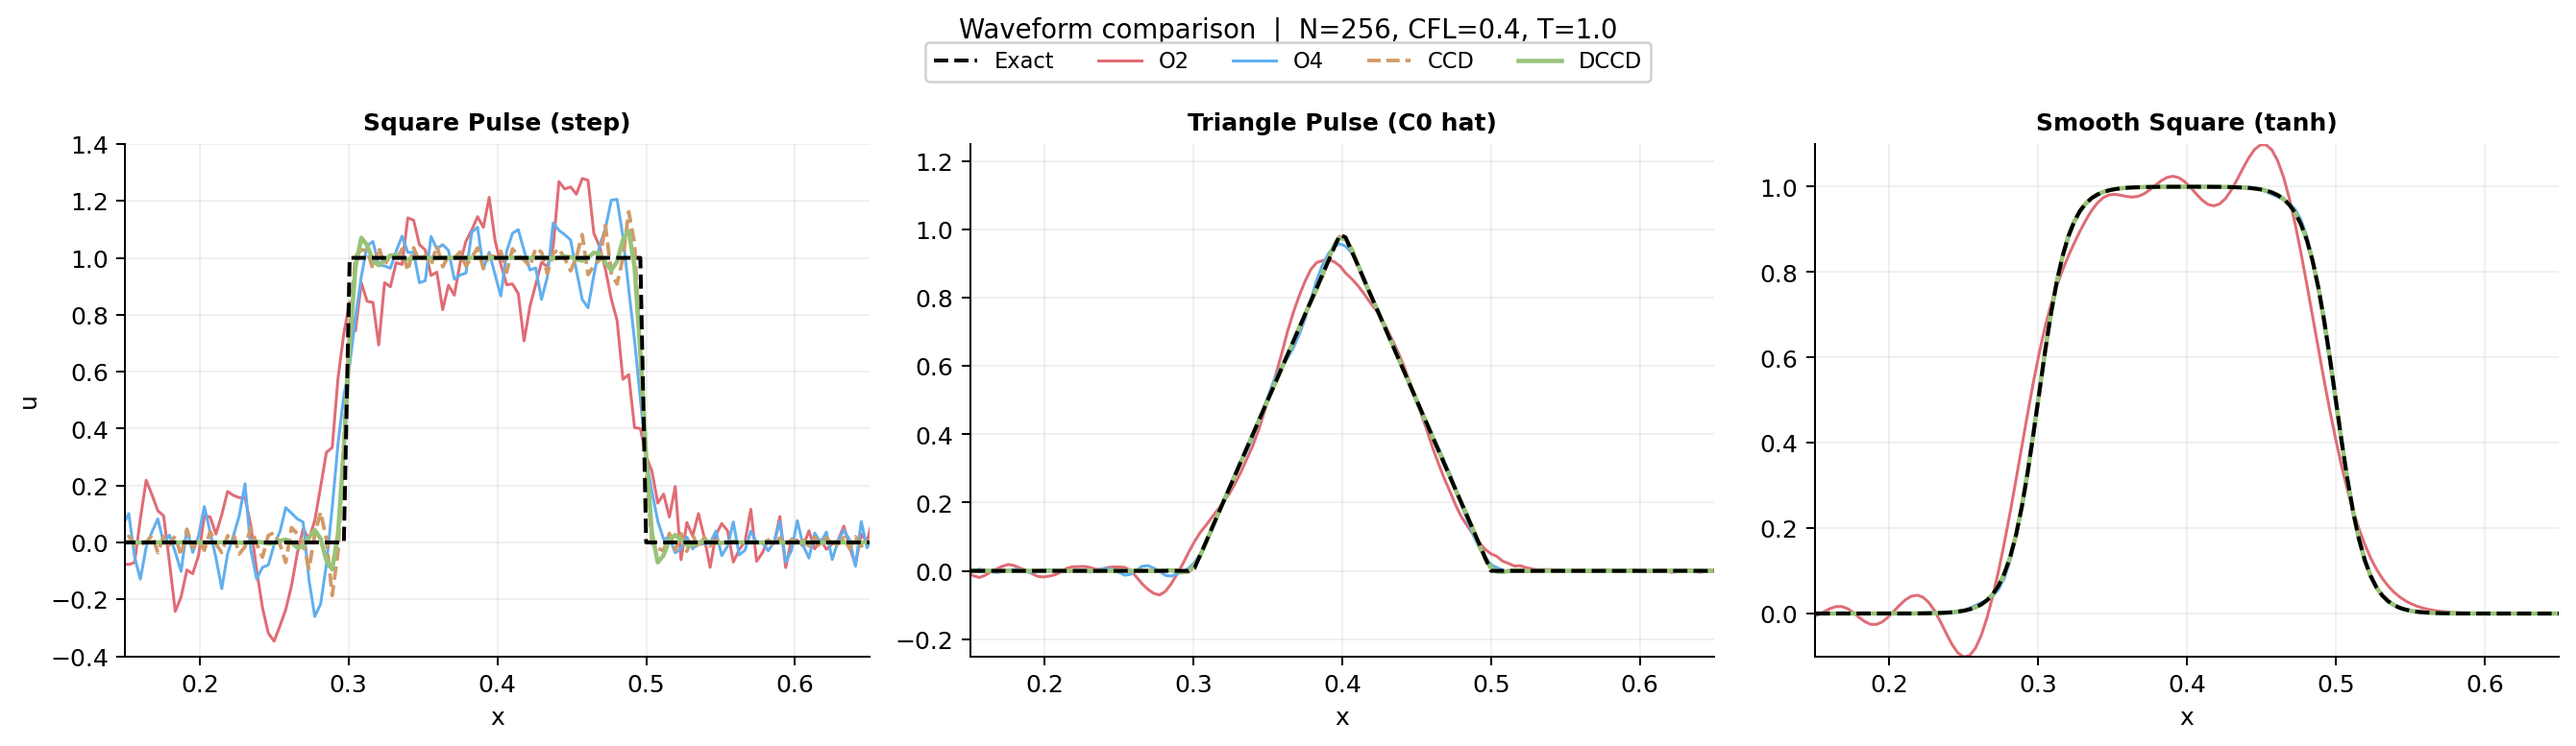
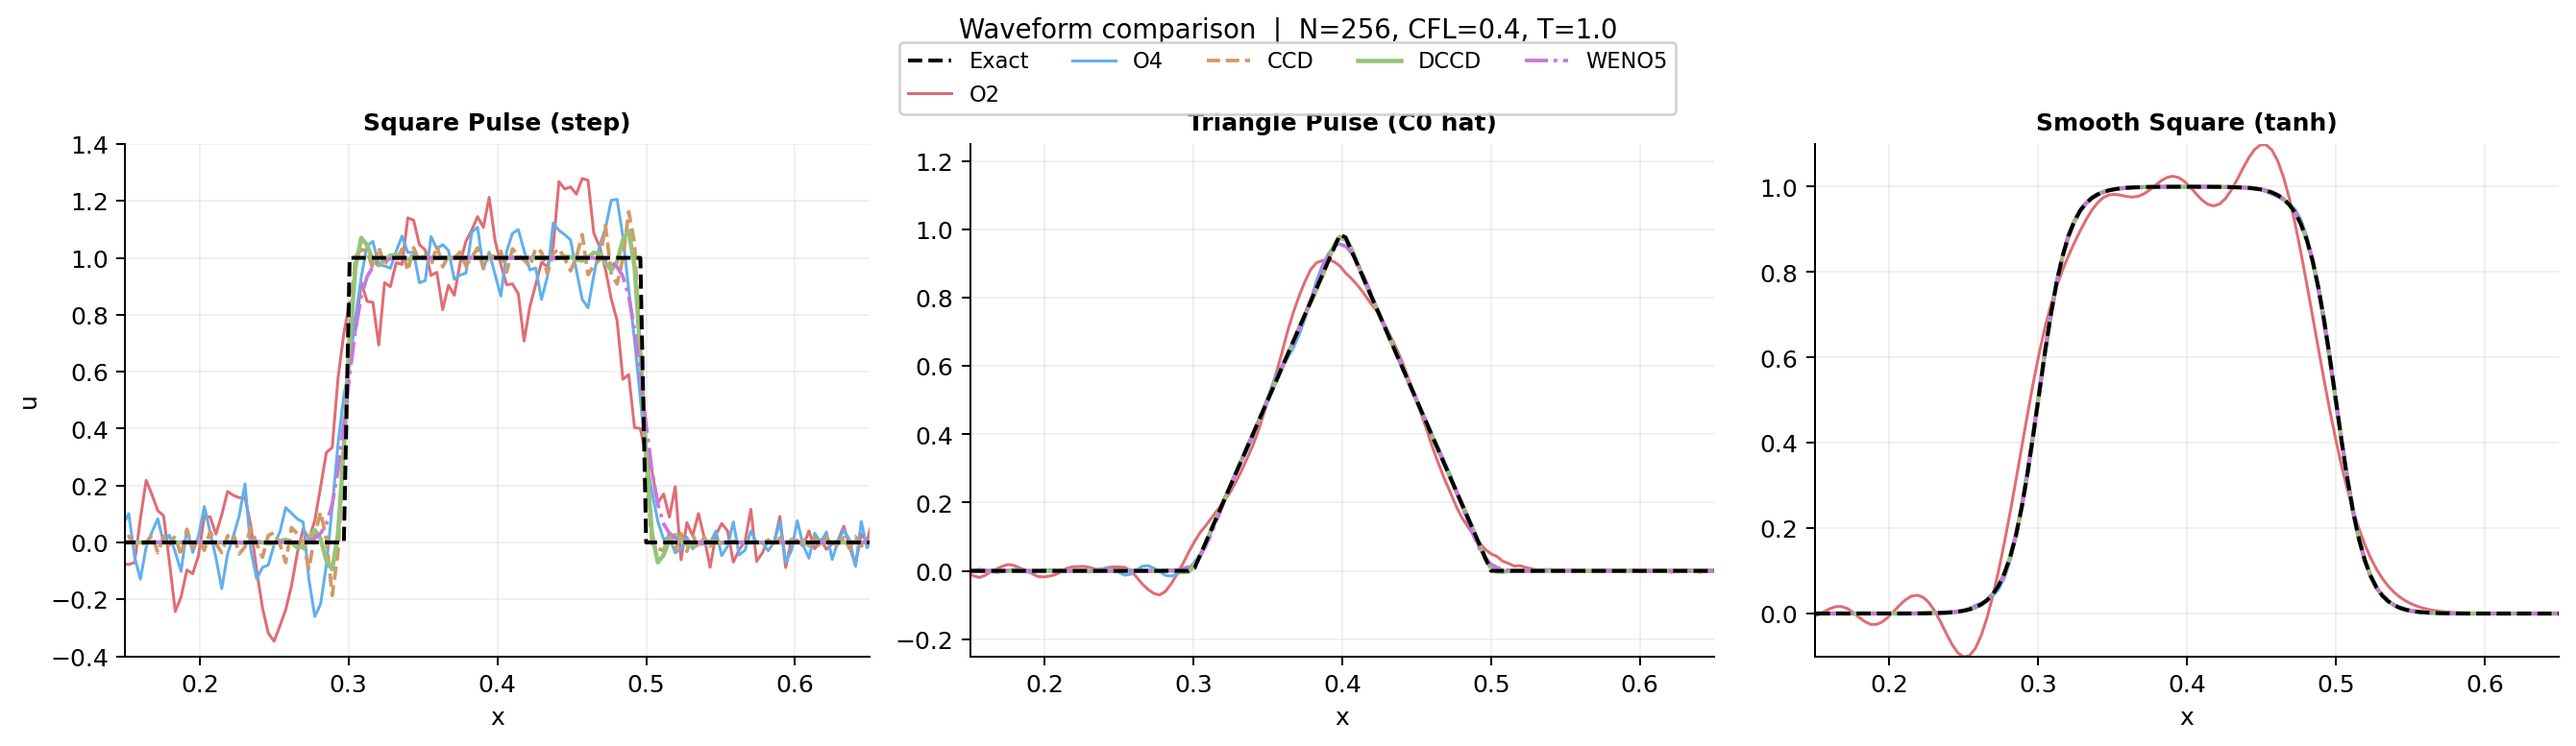
experiment+paper(§D.6): CHK-043 — add WENO5 to DCCD comparison experiment
- experiments/dccd_comparison.py: add WENO5 scheme using _weno5_pos/_weno5_neg
  from src/twophase/levelset/advection.py; np.roll handles periodic BC for
  N unique nodes (no duplicate endpoint)
- appendix_numerics_schemes_s6.tex: update §D.6 with WENO5 results and analysis
  Key results (N=256, CFL=0.4, T=1):
  · Square TV ratio: WENO5=1.00 (best) > DCCD=1.58 >> CCD=5.42
  · Square L2:       DCCD=4.23e-2 (best) < WENO5=6.35e-2
  · Tanh   L2:       CCD=2.57e-5 >> DCCD=3.75e-5 >> WENO5=9.66e-4
  DCCD retains best L2+TV balance for CLS interface profiles
- paper/figures: regenerated 3 figures with WENO5 added

Changed region(s): [[0.3405, 0.0618, 0.6501, 0.1544]]

diff --git a/paper/sections/appendix_numerics_schemes_s6.tex b/paper/sections/appendix_numerics_schemes_s6.tex
@@ -1,7 +1,7 @@
 % paper/sections/appendix_numerics_schemes_s6.tex
 %
 % D.6  Dissipative CCD スキーム比較実験（線形移流）
-%      O2 / O4 / CCD / DCCD の波形保持精度と総変動量比較
+%      O2 / O4 / CCD / DCCD / WENO5 の波形保持精度と総変動量比較
 %
 % 実験スクリプト: experiments/dccd_comparison.py
 % 結果データ:    results/dccd_comparison/{data,figures,latex}/
@@ -11,7 +11,8 @@
 % ═══════════════════════════════════════════════════════════════════════════════
 
 本付録は，本稿主実装として採用した Dissipative CCD（DCCD; §\ref{sec:dissipative_ccd}）と，
-代替スキームである標準 O2・O4 中心差分および非散逸 CCD の性能を
+代替スキームである標準 O2・O4 中心差分，非散逸 CCD，
+および参照 ENO 系スキームとして WENO5（付録~\ref{app:weno5}）の性能を
 1次元線形移流問題で定量的に比較した数値実験の記録である．
 
 % ─────────────────────────────────────────────────────────────────────────────
@@ -43,11 +44,16 @@ $T = 1$（ちょうど 1 周期）で厳密解は初期条件と一致する：$
         $(\partial u / \partial x)_i \approx (-u_{i+2} + 8u_{i+1} - 8u_{i-1} + u_{i-2}) / (12h)$
   \item \textbf{CCD}：6 次精度結合コンパクト差分（§\ref{sec:CCD}，周期 BC）
   \item \textbf{DCCD}：CCD + 10 次選択的フィルタ（本稿採用スキーム；§\ref{sec:dissipative_ccd}）
+  \item \textbf{WENO5}：5 次精度 Weighted ENO + 大域 Lax--Friedrichs フラックス分割
+        （付録~\ref{app:weno5} の定式化；TVD 的散逸の参照スキーム）
 \end{enumerate}
 
-CCD・DCCD の 1 次微分は，\texttt{src/twophase/ccd/ccd\_solver.py} の
-\texttt{CCDSolver}（周期 BC モード）を直接呼び出して計算した．
-周期 BC では $N$ 節点の $2N \times 2N$ ブロック巡回行列を事前 LU 分解して各ステップで解く．
+CCD・DCCD の 1 次微分は \texttt{src/twophase/ccd/ccd\_solver.py} の
+\texttt{CCDSolver}（周期 BC モード）を直接呼び出して計算した
+（$N$ 節点の $2N \times 2N$ ブロック巡回行列を事前 LU 分解）．
+WENO5 のフラックス再構成は \texttt{src/twophase/levelset/advection.py} の
+\texttt{\_weno5\_pos}/\texttt{\_weno5\_neg} カーネルを再利用し，
+周期折り返しを \texttt{numpy.roll} で処理した（重複端点なし，$N$ 一意節点）．
 
 \paragraph{10 次選択的フィルタ（d10）}
 DCCD では各 RK4 ステップ後に下記フィルタを適用する：
@@ -130,9 +136,9 @@ $\mathrm{TV}$ は Gibbs 振動の大きさを定量化し，
   \centering
   \includegraphics[width=\linewidth]{figures/dccd_waveforms_panel}
   \caption{%
-    1 次元線形移流 $T=1$ 後の波形比較．
+    1 次元線形移流 $T=1$ 後の波形比較（5 スキーム）．
     左から矩形波・三角波・平滑化矩形波（tanh）．
-    破線：厳密解，実線：各スキームの数値解．
+    破線：厳密解，実線/鎖線：各スキームの数値解．
     $N = 256$，$\mathrm{CFL} = 0.4$，DCCD フィルタ強度 $\alpha_f = 0.4$．
   }
   \label{fig:dccd_waveforms}
@@ -144,29 +150,31 @@ $\mathrm{TV}$ は Gibbs 振動の大きさを定量化し，
 \begin{table}[htbp]
   \centering
   \caption{%
-    $L^2$ 誤差 $E_{L^2}$（$T=1$，$N=256$，$\mathrm{CFL}=0.4$）．
-    括弧内は O2 誤差に対する比率．太字：各行の最良値．
+    $L^2$ 誤差 $E_{L^2}$（$T=1$，$N=256$，$\mathrm{CFL}=0.4$）．太字：各行の最良値．
   }
   \label{tab:dccd_l2}
-  \begin{tabular}{lccccc}
+  \begin{tabular}{lccccr}
     \toprule
-    初期条件 & O2 & O4 & CCD & DCCD \\
+    初期条件 & O2 & O4 & CCD & DCCD & WENO5 \\
     \midrule
     矩形波（ステップ不連続）
       & $1.41 \times 10^{-1}$
       & $9.08 \times 10^{-2}$
       & $4.80 \times 10^{-2}$
-      & $\mathbf{4.23 \times 10^{-2}}$ \\
+      & $\mathbf{4.23 \times 10^{-2}}$
+      & $6.35 \times 10^{-2}$ \\
     三角波（C0，コーナー点）
       & $2.41 \times 10^{-2}$
       & $5.84 \times 10^{-3}$
       & $\mathbf{1.37 \times 10^{-3}}$
-      & $1.41 \times 10^{-3}$ \\
+      & $1.41 \times 10^{-3}$
+      & $3.90 \times 10^{-3}$ \\
     平滑化矩形波（$C^\infty$，tanh）
       & $3.75 \times 10^{-2}$
       & $2.46 \times 10^{-3}$
       & $\mathbf{2.57 \times 10^{-5}}$
-      & $3.75 \times 10^{-5}$ \\
+      & $3.75 \times 10^{-5}$
+      & $9.66 \times 10^{-4}$ \\
     \bottomrule
   \end{tabular}
 \end{table}
@@ -178,26 +186,29 @@ $\mathrm{TV}$ は Gibbs 振動の大きさを定量化し，
   \centering
   \caption{%
     総変動量比 $\mathrm{TV}/\mathrm{TV}_{\rm exact}$（$T=1$，$N=256$，$\mathrm{CFL}=0.4$）．
-    $1.00$：厳密値保持．$\gg 1$：Gibbs 振動．太字：各行の最良値．
+    $1.00$：厳密値保持．$>1$：Gibbs 振動，$<1$：過散逸．太字：各行の最良値（1.00 に最近接）．
   }
   \label{tab:dccd_tv}
-  \begin{tabular}{lcccc}
+  \begin{tabular}{lccccc}
     \toprule
-    初期条件 & O2 & O4 & CCD & DCCD \\
+    初期条件 & O2 & O4 & CCD & DCCD & WENO5 \\
     \midrule
     矩形波（ステップ不連続）
       & $9.20$
       & $8.58$
       & $5.42$
-      & $\mathbf{1.58}$ \\
+      & $1.58$
+      & $\mathbf{1.00}$ \\
     三角波（C0，コーナー点）
       & $1.32$
       & $1.20$
       & $1.06$
-      & $\mathbf{1.00}$ \\
+      & $\mathbf{1.00}$
+      & $0.97$ \\
     平滑化矩形波（$C^\infty$，tanh）
       & $1.41$
       & $1.01$
+      & $\mathbf{1.00}$
       & $\mathbf{1.00}$
       & $\mathbf{1.00}$ \\
     \bottomrule
@@ -230,36 +241,35 @@ $\mathrm{TV}$ は Gibbs 振動の大きさを定量化し，
 \paragraph{ステップ不連続（矩形波）}
 O2・O4・CCD はいずれも $\mathrm{TV}/\mathrm{TV}_{\rm exact} \gg 1$（それぞれ $9.20, 8.58, 5.42$）
 であり，顕著な Gibbs 振動が残存する．
-DCCD は $\mathrm{TV}/\mathrm{TV}_{\rm exact} = 1.58$ まで削減し，
-他スキームと比べて最も良好な波形保持を実現する．
-$L^2$ 誤差も DCCD が最小（$4.23 \times 10^{-2}$）だが，
-ステップ不連続は本質的に高波数成分を持つため，
-いずれのスキームも $E_{L^2}$ は有限の $O(1/N)$ 誤差を持つ
-（Gibbs 現象による収束の遅れ）．
+WENO5 は内蔵 ENO 散逸により $\mathrm{TV}/\mathrm{TV}_{\rm exact} = 1.00$ を達成し，
+TV 保持に関しては最良スキームとなる．
+一方で $L^2$ 誤差は WENO5（$6.35 \times 10^{-2}$）より DCCD（$4.23 \times 10^{-2}$）の方が小さい．
+これは WENO5 の ENO スイッチングが不連続近傍でステンシルを局所的に低次化させるのに対し，
+DCCD の d10 フィルタは滑らかな高次精度を保ちつつ格子スケール振動のみを抑制するためと解釈できる．
 
 \paragraph{コーナー点特異性（三角波）}
-$L^2$ 精度は CCD がわずかに最良（$1.37 \times 10^{-3}$ vs DCCD $1.41 \times 10^{-3}$）だが，
-TV 比では DCCD が唯一 $1.00$（厳密値と一致）を達成する．
-CCD は Gibbs 的振動を散逸する機構を持たないため
-$\mathrm{TV}/\mathrm{TV}_{\rm exact} = 1.06$ の過剰変動が残る．
+$L^2$ 精度は CCD が最良（$1.37 \times 10^{-3}$），TV 比では DCCD が唯一 $1.00$ を達成する．
+WENO5 は TV が $0.97$（若干の過散逸）であり，コーナー近傍でも ENO が積極的に散逸する傾向を示す．
 
 \paragraph{$C^\infty$ 平滑プロファイル（tanh 波）}
-$L^2$ 精度は CCD が最良（$2.57 \times 10^{-5}$，DCCD の $1.46$ 倍良好）であり，
-6 次精度が完全に発揮される領域では非散逸スキームが有利なことを確認した．
-ただし DCCD（$3.75 \times 10^{-5}$）も O4（$2.46 \times 10^{-3}$）を大幅に上回り，
-TV は両者とも厳密値と一致する（$\mathrm{TV}/\mathrm{TV}_{\rm exact} = 1.000$）．
+$L^2$ 精度は CCD が最良（$2.57 \times 10^{-5}$），DCCD（$3.75 \times 10^{-5}$）がこれに次ぐ．
+WENO5 は $9.66 \times 10^{-4}$ と両者より 2 桁近く劣り，5 次精度と ENO スイッチ
+オーバーヘッドの影響が顕在化する．TV は 3 スキーム（CCD・DCCD・WENO5）がいずれも
+厳密値と一致する（$\mathrm{TV}/\mathrm{TV}_{\rm exact} = 1.000$）．
 
 \begin{tcolorbox}[resultbox, title={実験からの結論}]
 \begin{itemize}
-  \item \textbf{不連続・急峻プロファイル（CLS 界面付近に相当）：}
-        DCCD は他スキームを大幅に上回る TV 保持性能を示す
-        （矩形波：TV 比 $1.58$ vs O2/O4/CCD の $8$--$9$）．
-        d10 フィルタが格子スケール Gibbs 振動を効果的に除去する．
-  \item \textbf{滑らかなプロファイル（界面外側の速度場等）：}
-        CCD が最良精度を示す（6 次精度が完全発現）．
-        DCCD はわずかな余剰散逸（O4 比 $15$ 倍良好）を持つが，
-        TV は厳密値と一致し過散逸は生じない．
-  \item \textbf{総合判断：}
+  \item \textbf{TV 保持（不連続）：}
+        WENO5 が最優秀（矩形波 TV 比 $\mathbf{1.00}$）だが，$L^2$ 精度は DCCD（$4.23 \times 10^{-2}$）
+        より劣る（$6.35 \times 10^{-2}$）．WENO5 の ENO 散逸は不連続除去には強力だが
+        誤差の平坦化も引き起こす．
+  \item \textbf{総合精度（不連続・急峻）：}
+        DCCD は TV 比 $1.58$（WENO5 の次点）かつ最良 $L^2$ を兼備し，
+        精度と安定性のトレードオフが最小のスキームである．
+  \item \textbf{滑らかプロファイル精度：}
+        CCD が 6 次精度を完全発現（tanh L2 $= 2.57 \times 10^{-5}$）．
+        WENO5 は 5 次精度かつ ENO オーバーヘッドにより CCD の $38$ 倍劣る．
+  \item \textbf{総合判断（CLS 移流への適用）：}
         CLS プロファイルは界面近傍で急峻（tanh 状）かつ
         移流方向に不連続性を含み得るため，
         DCCD は $L^2$ 精度と TV 保持の両面で最も適切なスキームである．

diff --git a/experiments/dccd_comparison.py b/experiments/dccd_comparison.py
@@ -7,10 +7,11 @@ Exact solution at T=1 = initial condition.
 
 Schemes
 -------
-  O2   : 2nd-order central FD
-  O4   : 4th-order central FD
-  CCD  : 6th-order Combined Compact Difference (src/twophase/ccd/ccd_solver.py, periodic)
-  DCCD : CCD + 10th-order selective filter (d10) applied every RK4 step
+  O2    : 2nd-order central FD
+  O4    : 4th-order central FD
+  CCD   : 6th-order Combined Compact Difference (src/twophase/ccd/ccd_solver.py, periodic)
+  DCCD  : CCD + 10th-order selective filter (d10) applied every RK4 step
+  WENO5 : 5th-order Weighted ENO + global Lax-Friedrichs (src/twophase/levelset/advection.py)
 
 Initial conditions (all supported on [0.3, 0.5] ⊂ [0, 1))
 -----------------------------------------------------------
@@ -65,6 +66,7 @@ import matplotlib.ticker as mticker
 
 sys.path.insert(0, os.path.join(os.path.dirname(__file__), "..", "src"))
 from twophase.ccd.ccd_solver import CCDSolver
+from twophase.levelset.advection import _weno5_pos, _weno5_neg
 
 # ─── output directories ───────────────────────────────────────────────────────
 _ROOT = os.path.join(os.path.dirname(__file__), "..")
@@ -158,17 +160,50 @@ def _rhs_ccd(u: np.ndarray) -> np.ndarray:
     d1, _ = _ccd_solver.differentiate(u_ext, axis=0)
     return -C * np.asarray(d1)[:N]
 
+def _rhs_weno5(u: np.ndarray) -> np.ndarray:
+    """WENO5 + global Lax-Friedrichs for u_t + c*u_x = 0 (periodic, N unique nodes).
+
+    Uses _weno5_pos/_weno5_neg from src/twophase/levelset/advection.py.
+    np.roll handles periodic wrapping without a duplicate endpoint node.
+    """
+    F     = C * u
+    alpha = abs(C)  # global Lax-Friedrichs speed = 1.0
+
+    # Positive split: F+[i] = (F[i] + alpha*u[i]) / 2
+    # Stencil for face i+1/2 (positive): nodes i-2..i+2
+    Fp_m2 = 0.5 * (np.roll(F,  2) + alpha * np.roll(u,  2))
+    Fp_m1 = 0.5 * (np.roll(F,  1) + alpha * np.roll(u,  1))
+    Fp_0  = 0.5 * (F              + alpha * u              )
+    Fp_p1 = 0.5 * (np.roll(F, -1) + alpha * np.roll(u, -1))
+    Fp_p2 = 0.5 * (np.roll(F, -2) + alpha * np.roll(u, -2))
+
+    # Negative split: F-[i] = (F[i] - alpha*u[i]) / 2
+    # Stencil for face i+1/2 (negative): nodes i-1..i+3
+    Fm_m1 = 0.5 * (np.roll(F,  1) - alpha * np.roll(u,  1))
+    Fm_0  = 0.5 * (F              - alpha * u              )
+    Fm_p1 = 0.5 * (np.roll(F, -1) - alpha * np.roll(u, -1))
+    Fm_p2 = 0.5 * (np.roll(F, -2) - alpha * np.roll(u, -2))
+    Fm_p3 = 0.5 * (np.roll(F, -3) - alpha * np.roll(u, -3))
+
+    flux = (_weno5_pos(np, Fp_m2, Fp_m1, Fp_0, Fp_p1, Fp_p2)
+          + _weno5_neg(np, Fm_m1, Fm_0,  Fm_p1, Fm_p2, Fm_p3))
+
+    # Divergence: (flux_{i+1/2} - flux_{i-1/2}) / H  (periodic)
+    return -(flux - np.roll(flux, 1)) / H
+
+
 def _d10_filter(u: np.ndarray) -> np.ndarray:
     """u + α_f · D10(u).  Dissipates HF modes: Nyquist → ×(1−α_f)."""
     d10 = sum(c * np.roll(u, 5 - j) for j, c in enumerate(_D10_KERNEL))
     return u + FILTER_ALPHA * d10
 
-# Scheme registry: key → (label, rhs, post_step, color, linestyle)
+# Scheme registry: key → (label, rhs, post_step, color, linestyle, linewidth)
 SCHEMES: OrderedDict[str, tuple] = OrderedDict([
-    ("O2",   ("O2",   _rhs_o2,  None,        "#e06c75", "-",  1.2)),
-    ("O4",   ("O4",   _rhs_o4,  None,        "#61afef", "-",  1.2)),
-    ("CCD",  ("CCD",  _rhs_ccd, None,        "#d19a66", "--", 1.5)),
-    ("DCCD", ("DCCD", _rhs_ccd, _d10_filter, "#98c379", "-",  1.8)),
+    ("O2",    ("O2",    _rhs_o2,   None,        "#e06c75", "-",  1.2)),
+    ("O4",    ("O4",    _rhs_o4,   None,        "#61afef", "-",  1.2)),
+    ("CCD",   ("CCD",   _rhs_ccd,  None,        "#d19a66", "--", 1.5)),
+    ("DCCD",  ("DCCD",  _rhs_ccd,  _d10_filter, "#98c379", "-",  1.8)),
+    ("WENO5", ("WENO5", _rhs_weno5, None,       "#c678dd", "-.",  1.5)),
 ])
 
 
